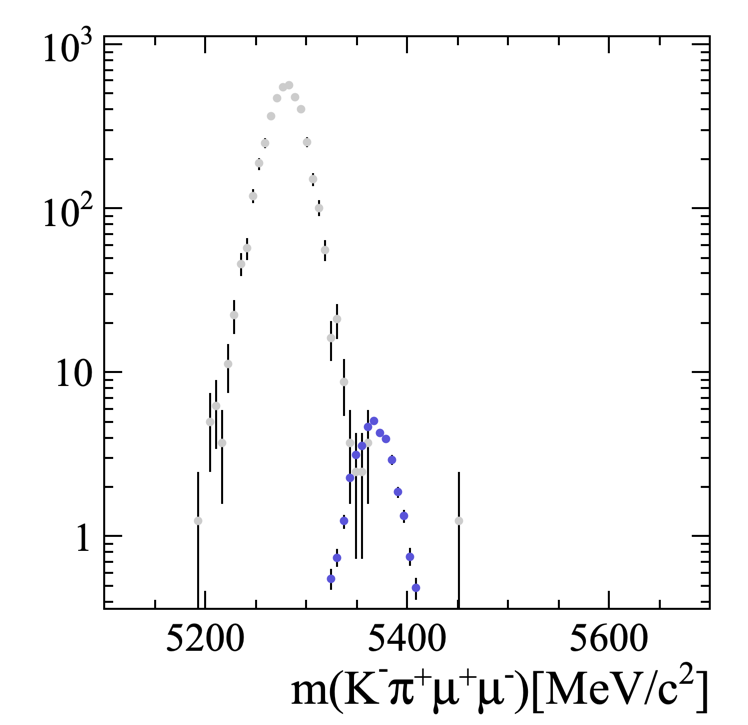
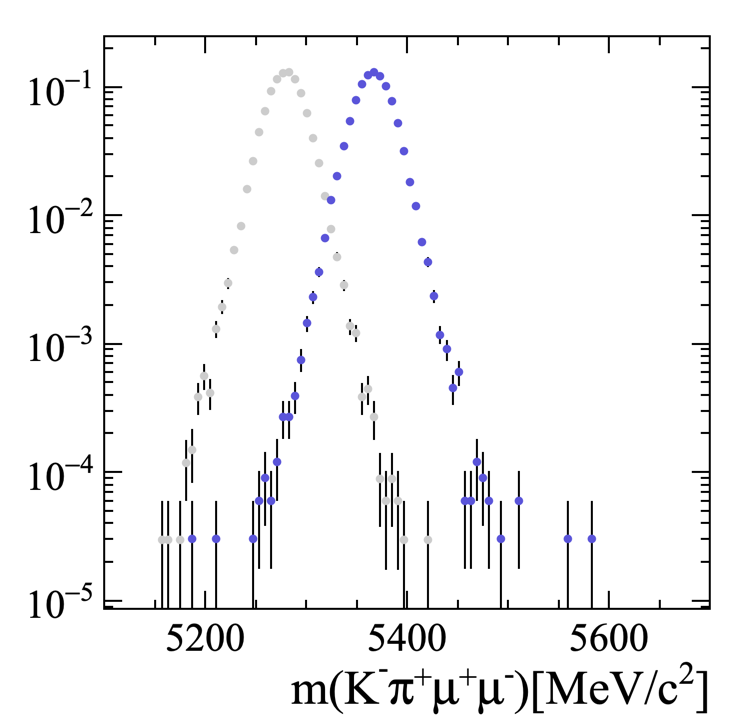
upate with more stat

diff --git a/mass_plots/LittleMassPlots.py b/mass_plots/LittleMassPlots.py
@@ -68,8 +68,8 @@ if __name__ == '__main__':
      BsKstmm_mass_hist.SetMarkerColor(9)
      tBdToKstmm.Draw("B_M*1000>>BdKstmm_mass_hist","","")
      tBsToKstmm.Draw("B_M*1000>>BsKstmm_mass_hist", "","SAME")
-     BdKstmm_mass_hist.Scale(4157*1./BdKstmm_mass_hist.Integral())
-     BsKstmm_mass_hist.Scale(38*1./BsKstmm_mass_hist.Integral())
+     BdKstmm_mass_hist.Scale(1./BdKstmm_mass_hist.Integral())
+     BsKstmm_mass_hist.Scale(1./BsKstmm_mass_hist.Integral())
      cMuons.SaveAs("plots/Kstmm.png")
      #K* family with electrons
      cElectrons =  ROOT.TCanvas ("cElectrons","cElectrons",750,750)
@@ -81,8 +81,8 @@ if __name__ == '__main__':
      BsKstee_mass_hist.SetMarkerColor(9)
      tBdToKstee.Draw("B_M*1000>>BdKstee_mass_hist", "","")
      tBsToKstee.Draw("B_M*1000>>BsKstee_mass_hist","","SAME")
-     BdKstee_mass_hist.Scale(4157*1./BdKstee_mass_hist.Integral())
-     BsKstee_mass_hist.Scale(38*1./BsKstee_mass_hist.Integral())
+     BdKstee_mass_hist.Scale(1./BdKstee_mass_hist.Integral())
+     BsKstee_mass_hist.Scale(1./BsKstee_mass_hist.Integral())
      cElectrons.SaveAs("plots/Kstee.png")
 
 
